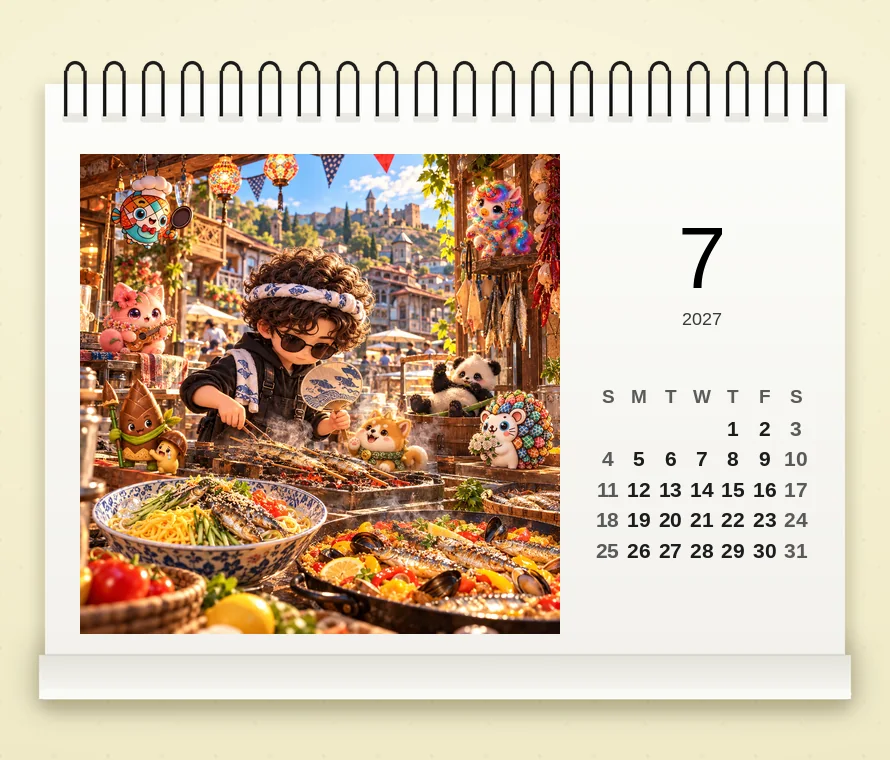
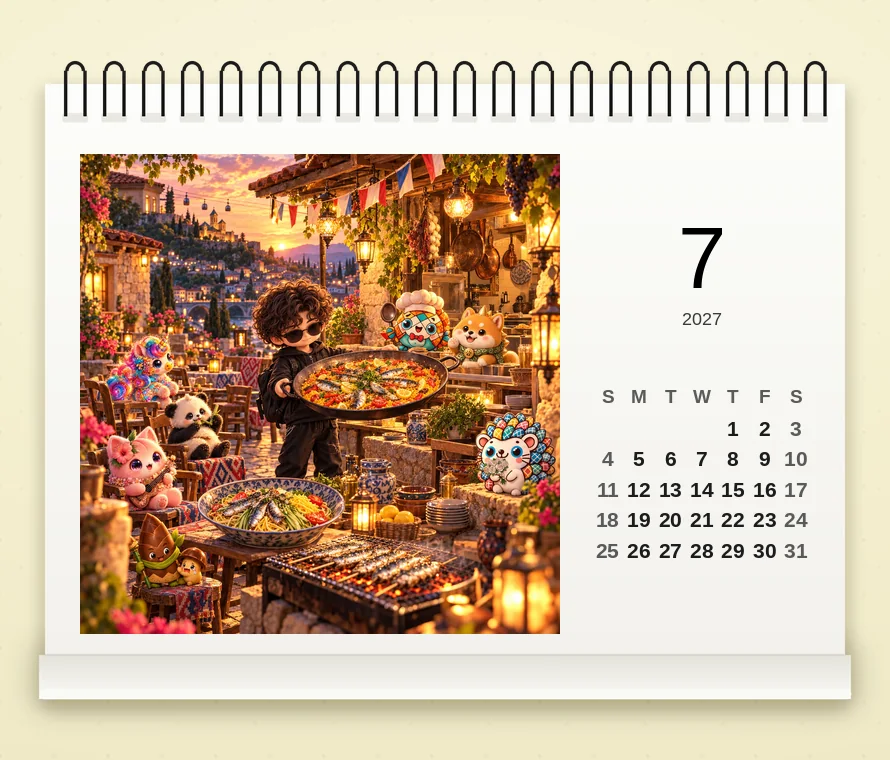
カレンダーの1・2・3・7月を、あやとが選んだ候補に替える
#786 のレビューで、1月は b、2月は b、3月は c、7月のイワシ祭りは c と選ばれた。
候補は前の回で作って残してあるので、作り直さずに元絵を替えて焼き直すだけ。
写っているものが変わったので、面の alt も合わせて直す。

Claude-Session: https://claude.ai/code/session_01SyiW4Lu1zu7mPt5z6REGQ6

diff --git a/site/content/goods.ts b/site/content/goods.ts
@@ -362,7 +362,7 @@ export const CAL_MONTHS: CalMonth[] = [
     picks: [
       {
         src: "/goods/calendar/01-a.webp",
-        alt: "赤い十字の旗と白い衣装の行列が進む石畳を、スマホを掲げて走って追いかけるあやとの後ろ姿。青空と雪の山、まわりに島の住人たち",
+        alt: "赤い十字の旗と白い衣装の行列の横を、スマホを掲げて走るサングラスのあやと。青空と鐘楼、足もとに島の住人たち",
       },
     ],
   },
@@ -372,7 +372,7 @@ export const CAL_MONTHS: CalMonth[] = [
     picks: [
       {
         src: "/goods/calendar/02-a.webp",
-        alt: "夕日の黒海が見えるホステルの台所で、ポテトを揚げるあやとの後ろ姿。台をのぞく男の子と、テーブルのお母さん、まわりに島の住人たち",
+        alt: "夕日の黒海が見えるホステルの台所で、ケバブサンドを巻くサングラスのあやと。ポテトを差し出す男の子と見守るお母さん、まわりに島の住人たち",
       },
     ],
   },
@@ -382,7 +382,7 @@ export const CAL_MONTHS: CalMonth[] = [
     picks: [
       {
         src: "/goods/calendar/03-a.webp",
-        alt: "時計塔と花の咲く旧市街のカフェで、メレンゲが山盛りのクロワッサンにかぶりつくサングラスのあやと。まわりに島の住人たち",
+        alt: "メレンゲが山盛りのクロワッサンが並ぶショーケースを、外からのぞき込むサングラスのあやと。奥に時計塔と花の咲く旧市街、まわりに島の住人たち",
       },
     ],
   },
@@ -422,7 +422,7 @@ export const CAL_MONTHS: CalMonth[] = [
     picks: [
       {
         src: "/goods/calendar/07-a.webp",
-        alt: "祭りの屋台で鉢巻きをしてイワシを焼くあやと。冷やし中華とパエリアが並び、まわりに島の住人たち",
+        alt: "夕暮れの中庭の祭りで、イワシのパエリアの大鍋を掲げるサングラスのあやと。冷やし中華と塩焼きが並び、まわりに島の住人たち",
       },
       {
         src: "/goods/calendar/07-b.webp",
